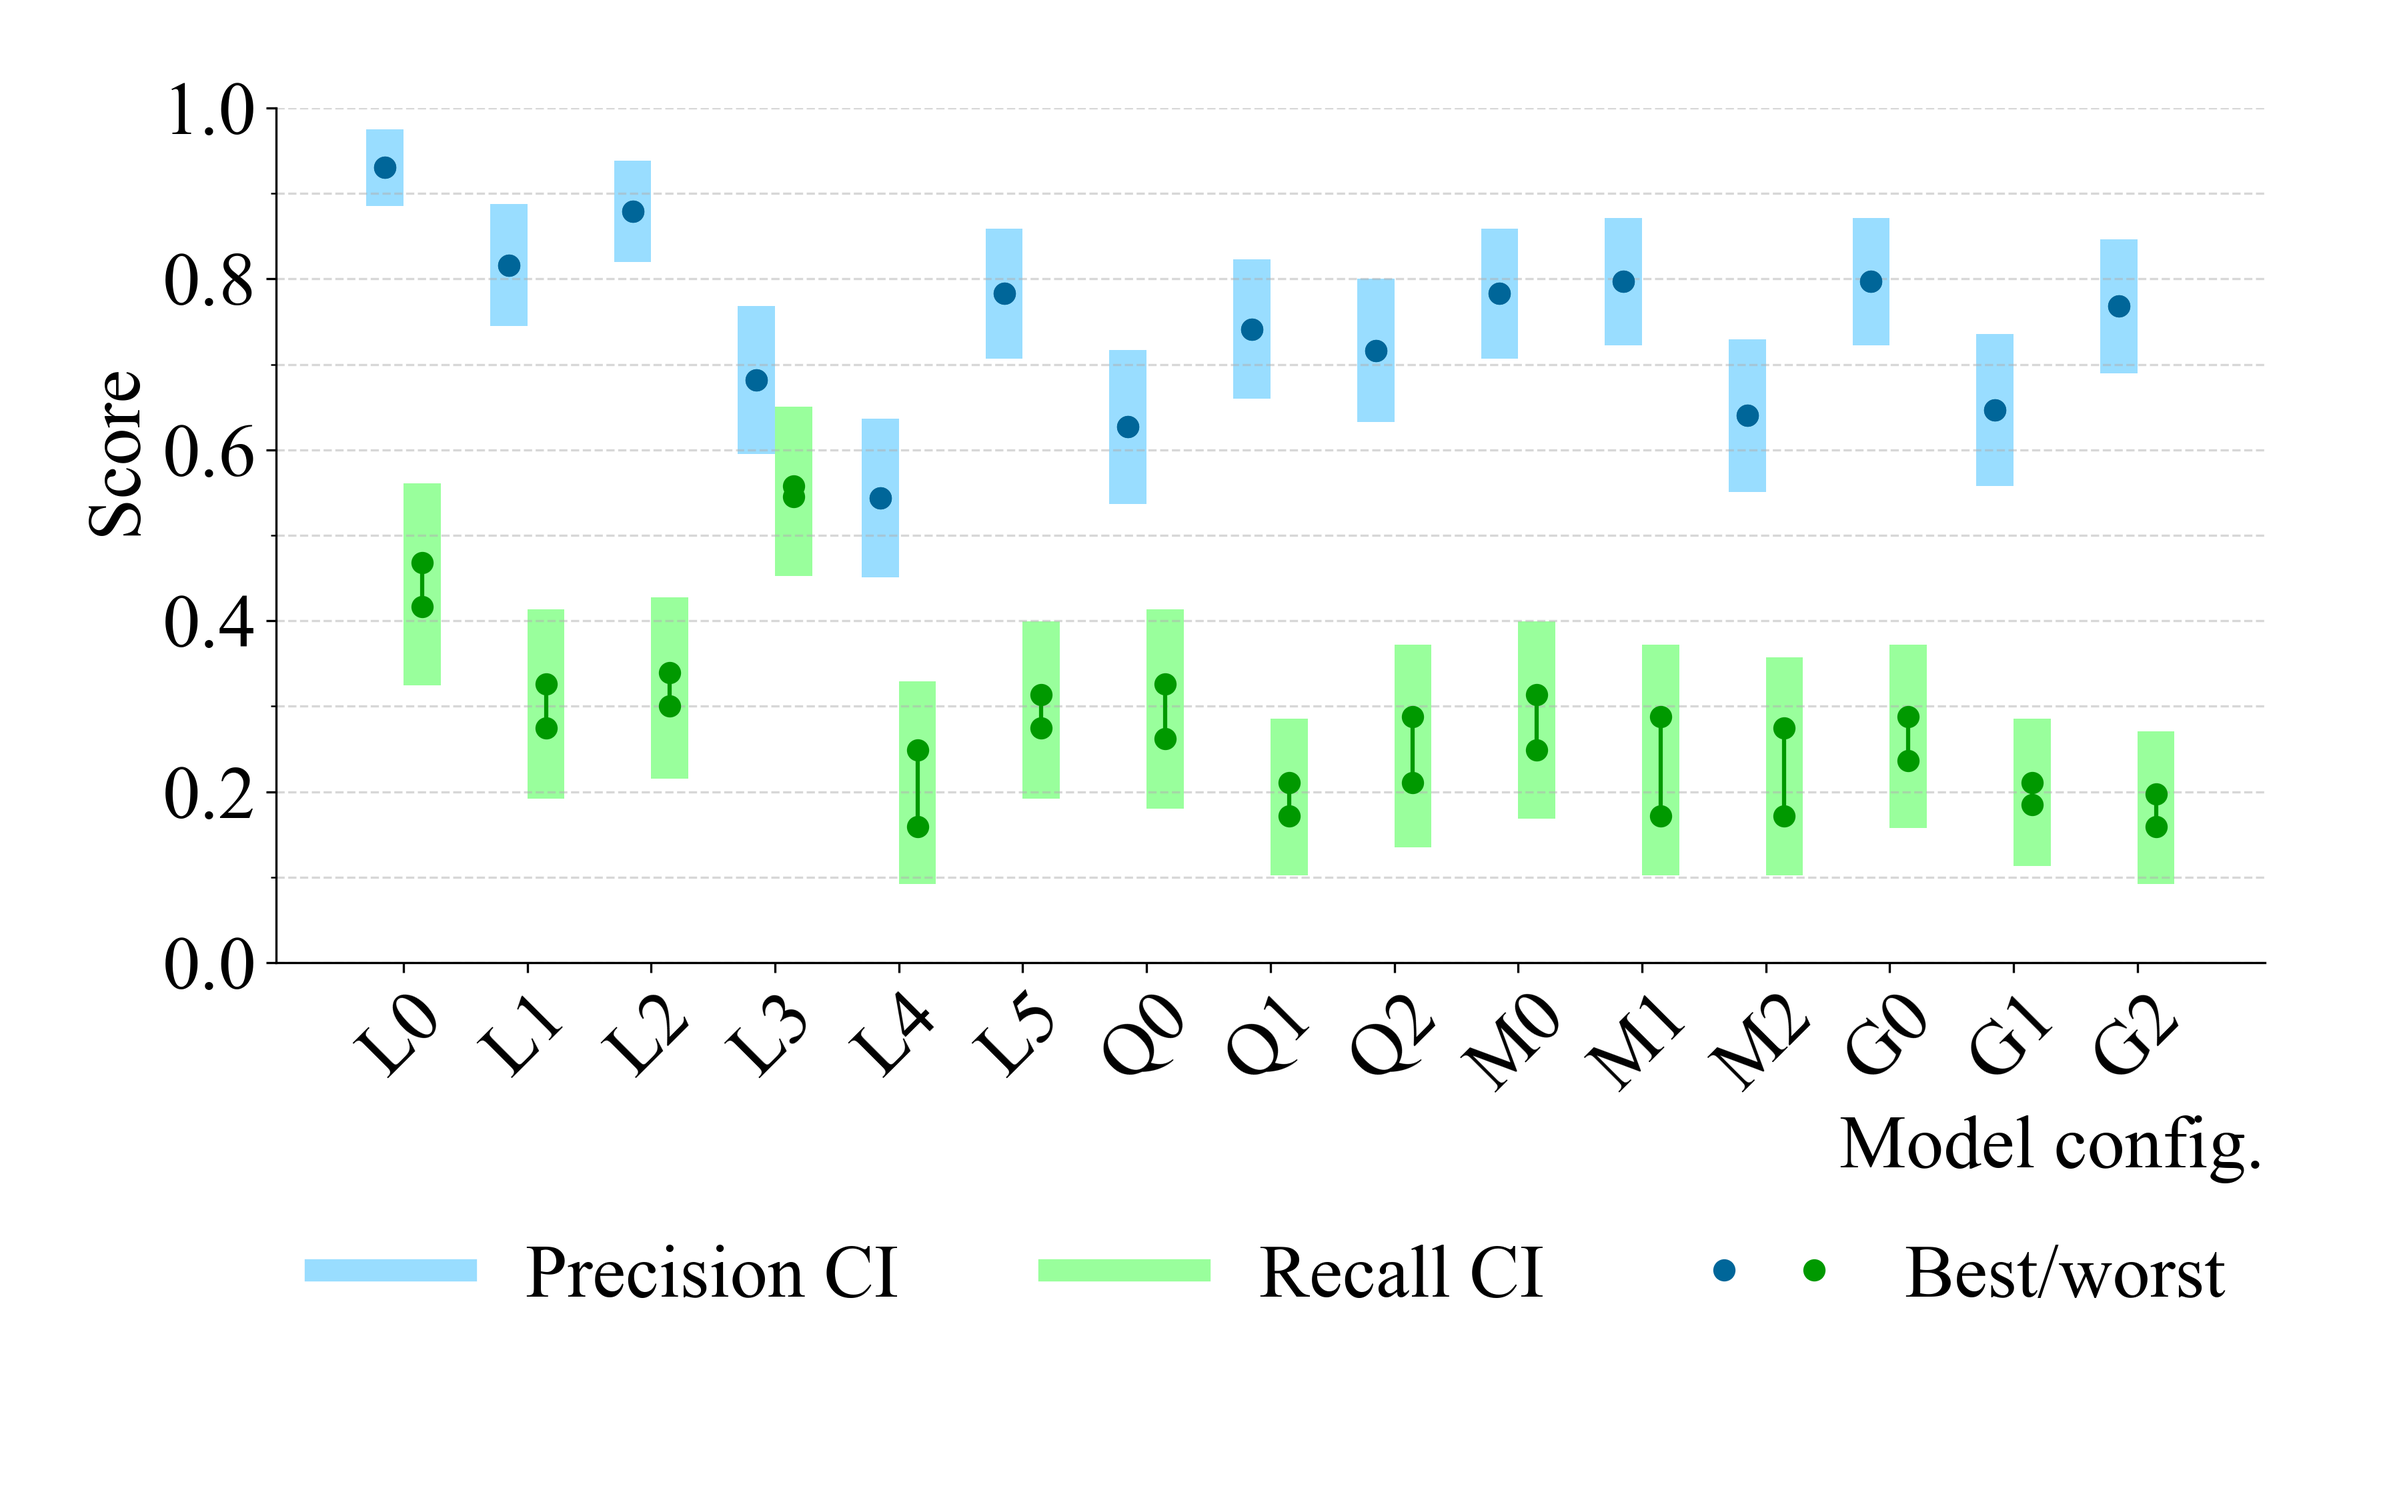
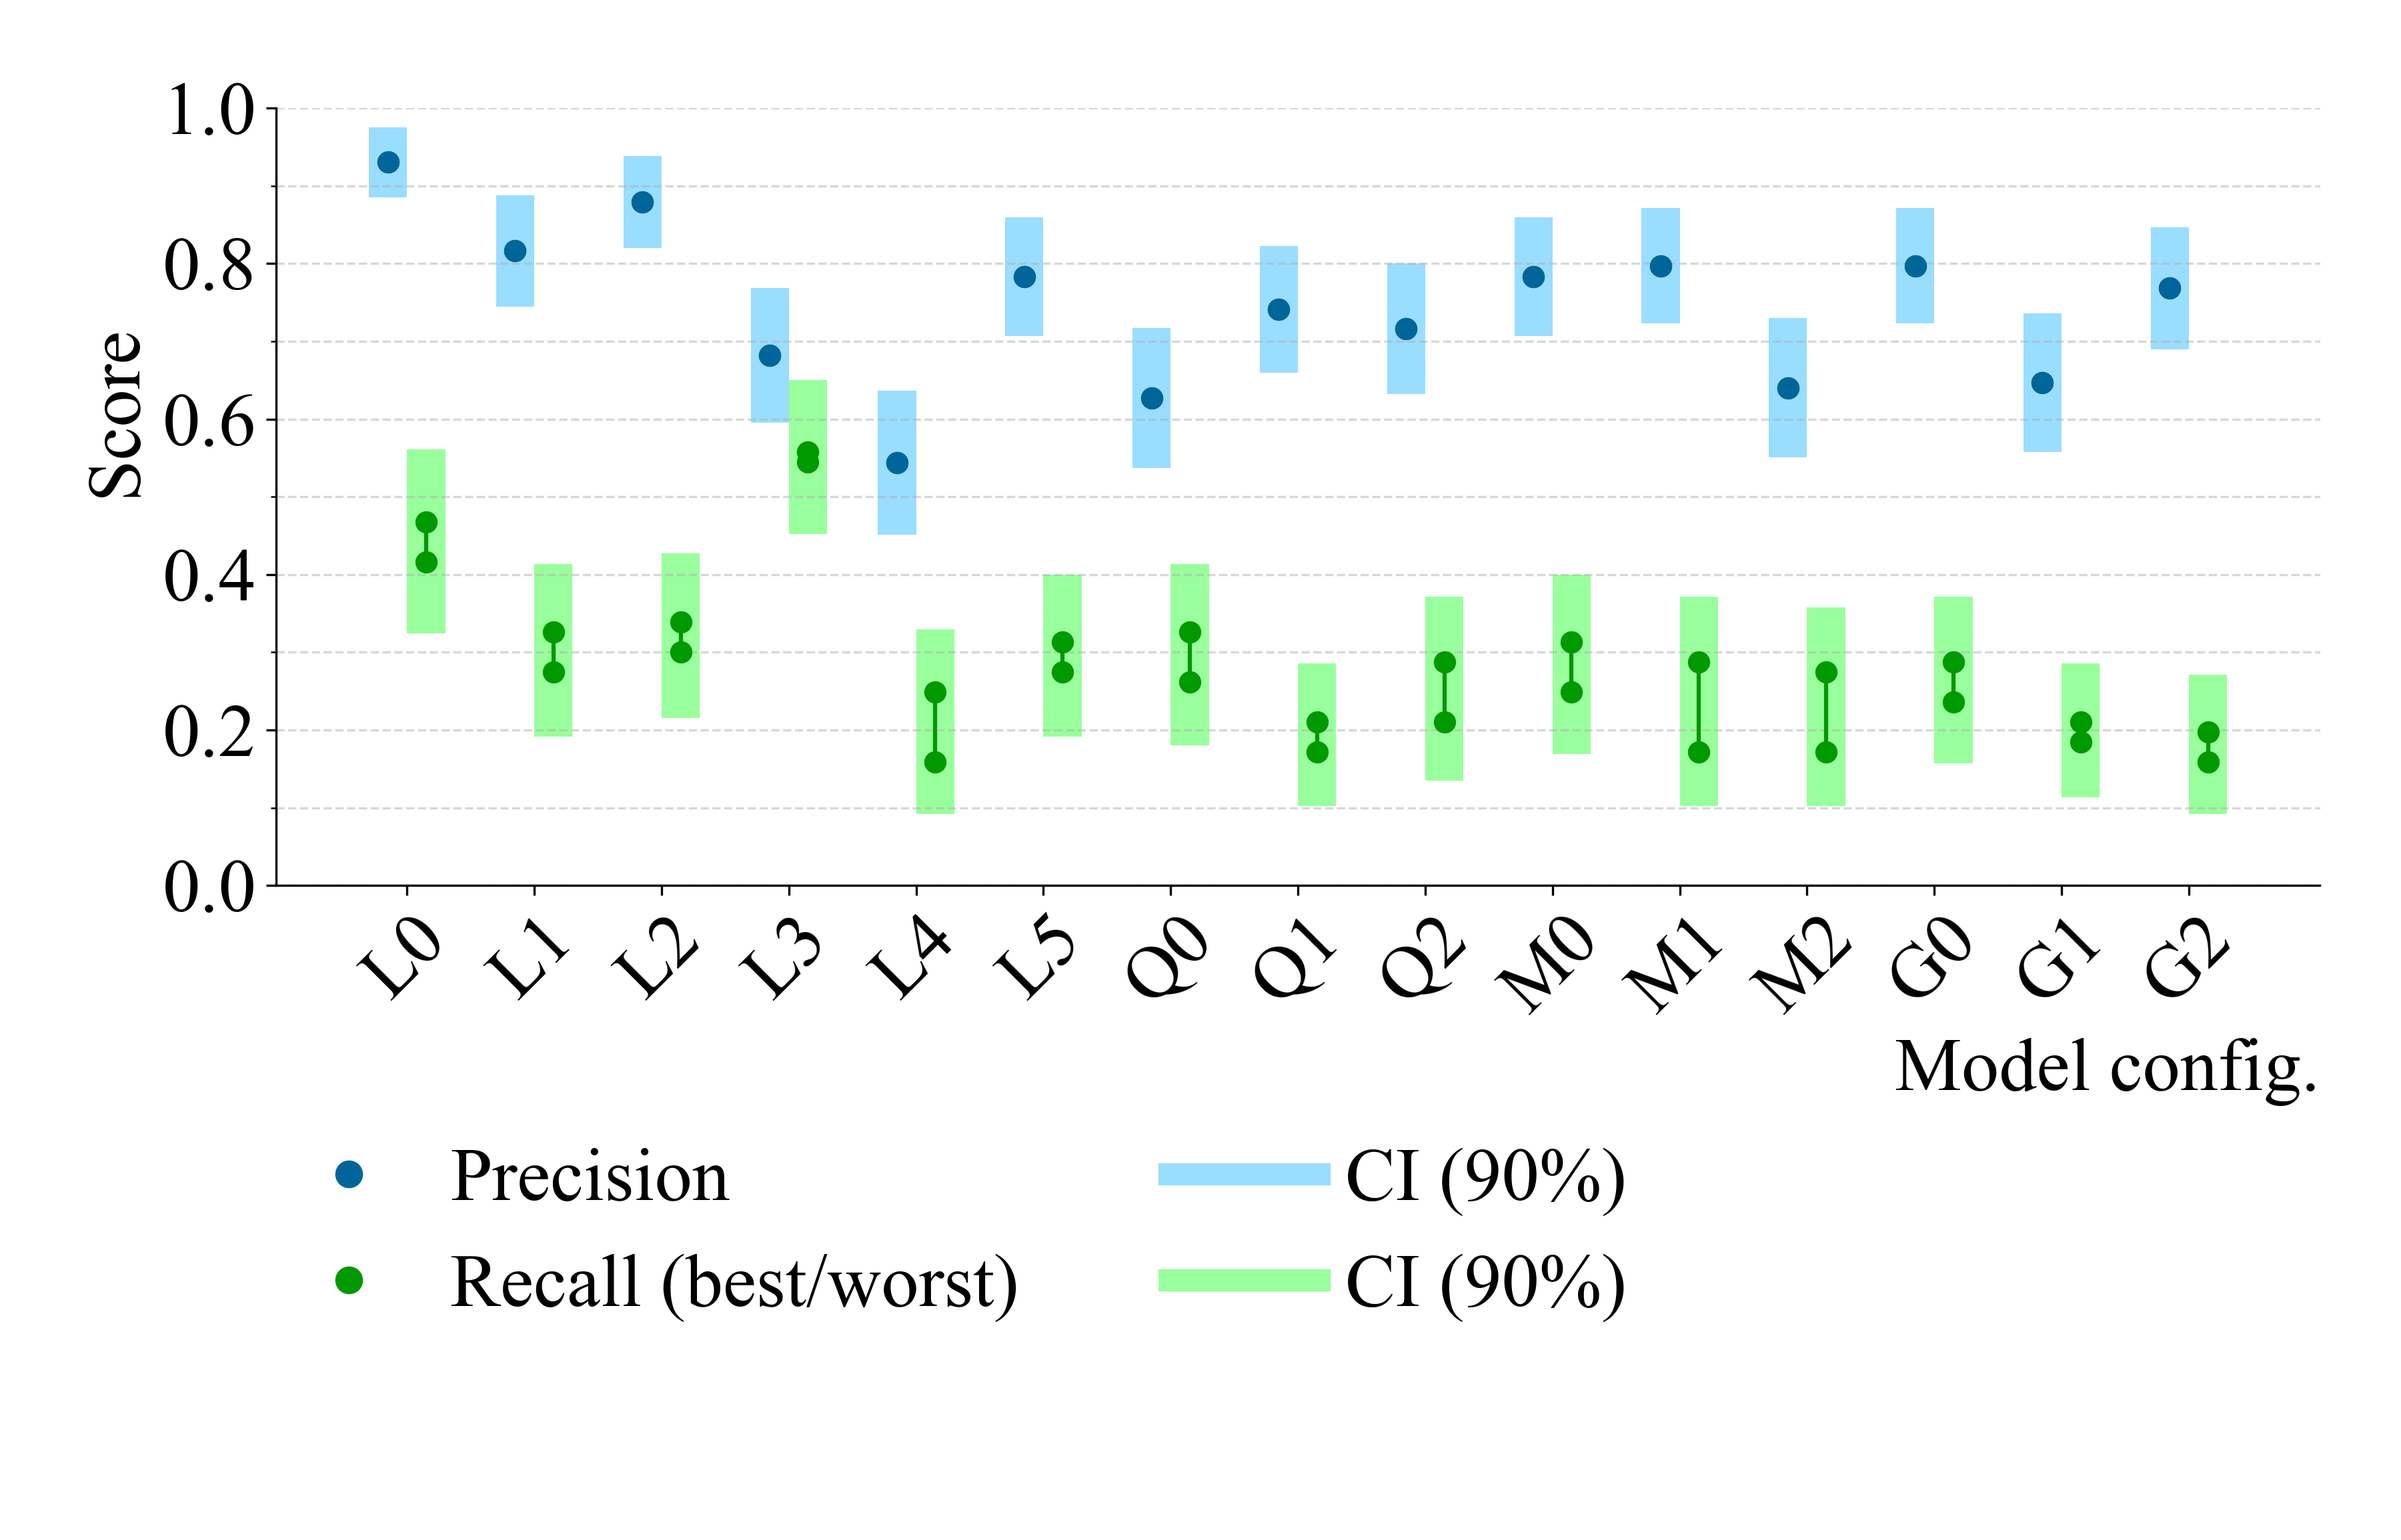
Update graph asthetics

diff --git a/src/graph/results_figure_a.py b/src/graph/results_figure_a.py
@@ -3,6 +3,7 @@ import numpy as np
 from matplotlib.lines import Line2D
 import matplotlib.patches as mpatches
 from matplotlib.ticker import MultipleLocator
+from matplotlib.legend_handler import HandlerBase
 
 # Labels for the categories
 labels = ['L0', 'L1', 'L2', 'L3', 'L4', 'L5', 'Q0', 'Q1', 'Q2', 'M0', 'M1', 'M2', 'G0', 'G1', 'G2']
@@ -54,18 +55,44 @@ ax.yaxis.set_minor_locator(MultipleLocator(0.1))
 ax.grid(which='minor', axis='y', linestyle='--', alpha=0.5)
 ax.grid(which='major', axis='y', linestyle='--', alpha=0.5)
 
-# Custom legend
-f2_patch = mpatches.Patch(color='#1f77b4', label='F2')
-f2s_patch = mpatches.Patch(color='#ff7f0e', label='Relative F2')
+# Custom handler to align marker with the first line of text
+class HandlerDotAlignFirstLine(HandlerBase):
+    def create_artists(self, legend, orig_handle,
+                       x0, y0, width, height, fontsize, trans):
+        center = y0 + 1.3 * height  # shift up
+        p = plt.Line2D([x0+40], [center],
+                       linestyle='None',
+                       marker='o',
+                       markersize=14,
+                       markerfacecolor=orig_handle.get_markerfacecolor(),
+                       markeredgecolor='none',
+                       transform=trans)
+        return [p]
+
+# Create dummy handles
+f2_handle = Line2D([0], [0], marker='o', color='w',
+                   markerfacecolor='#1f77b4', markersize=14,
+                   label='F2\n(best/worst)')
+f2s_handle = Line2D([0], [0], marker='o', color='w',
+                    markerfacecolor='#ff7f0e', markersize=14,
+                    label='Relative F2\n(best/worst)')
+
+# Legend with custom handler
 ax.legend(
-  handles=[
-    Line2D([0], [0], marker='o', color='w', markerfacecolor='#1f77b4', markersize=14, label='F2\n(best/worst)'),
-    Line2D([0], [0], marker='o', color='w', markerfacecolor='#ff7f0e', markersize=14, label='Relative F2\n(best/worst)'),
-  ],
-  loc='upper center', bbox_to_anchor=(0.25, -0.25), ncol=2, frameon=False
+    handles=[f2_handle, f2s_handle],
+    handler_map={f2_handle: HandlerDotAlignFirstLine(),
+                 f2s_handle: HandlerDotAlignFirstLine()},
+    loc='upper center',
+    bbox_to_anchor=(0.25, -0.25),
+    ncol=2,
+    frameon=False,
+    handletextpad=0.5,  # reduce space between dot and text
+    borderpad=0.4,
+    columnspacing=1.0,
+    labelspacing=1.0
 )
 
 # Save and display
 plt.tight_layout()
 plt.savefig("../../results/graph/results_figure_a.png", dpi=300)
-plt.show()
+#plt.show()

diff --git a/src/graph/results_figure_b.py b/src/graph/results_figure_b.py
@@ -70,7 +70,7 @@ merged_r_low, merged_r_cmin, merged_r_cmax, merged_r_high = merge_extremes(
 )
 
 # Plotting
-fig, ax = plt.subplots(figsize=(12, 7.5))
+fig, ax = plt.subplots(figsize=(12, 7.7))
 
 def draw_boxes(ax, positions, low, cmin, cmax, high, box_color, label):
   for i, (pos, lo, cmn, cmx, hi) in enumerate(zip(positions, low, cmin, cmax, high)):
@@ -93,14 +93,11 @@ ax.plot(merged_right, merged_r_cmax, 'o', color=recall_center_color, markersize=
 
 # Legend setup
 legend_handles = [
-  Line2D([0], [0], color=precision_color, linewidth=8, label='Precision CI'),
-  Line2D([0], [0], color=recall_color, linewidth=8, label='Recall CI'),
-  (
-    Line2D([0], [0], marker='o', color='w', markerfacecolor=precision_center_color, markersize=9),
-    Line2D([0], [0], marker='o', color='w', markerfacecolor=recall_center_color, markersize=9)
-  )
+  Line2D([0], [0], marker='o', color='w', markerfacecolor=precision_center_color, markersize=11, label='Precision'),
+  Line2D([0], [0], marker='o', color='w', markerfacecolor=recall_center_color, markersize=11, label='Recall (best/worst)'),
+  Line2D([0], [0], color=precision_color, linewidth=8, label='CI (90%)'),
+  Line2D([0], [0], color=recall_color, linewidth=8, label='CI (90%)')
 ]
-
 
 ax.set_xticks(x)
 ax.set_xticklabels(labels, rotation=45)
@@ -116,14 +113,12 @@ ax.grid(which='minor', axis='y', linestyle='--', alpha=0.5)
 ax.grid(which='major', axis='y', linestyle='--', alpha=0.5)
 ax.legend(
   handles=legend_handles,
-  labels=['Precision CI', 'Recall CI', 'Best/worst'],
-  handler_map={legend_handles[2]: HandlerTuple(ndivide=None)},
   loc='upper center',
-  bbox_to_anchor=(0.5, -0.25),
-  ncol=3,
-  frameon=False
+  bbox_to_anchor=(0.33, -0.25),
+  ncol=2,
+  frameon=False,
+  handletextpad=0.35
 )
-
 
 plt.tight_layout()
 plt.savefig("../../results/graph/results_figure_b.png", dpi=300)
